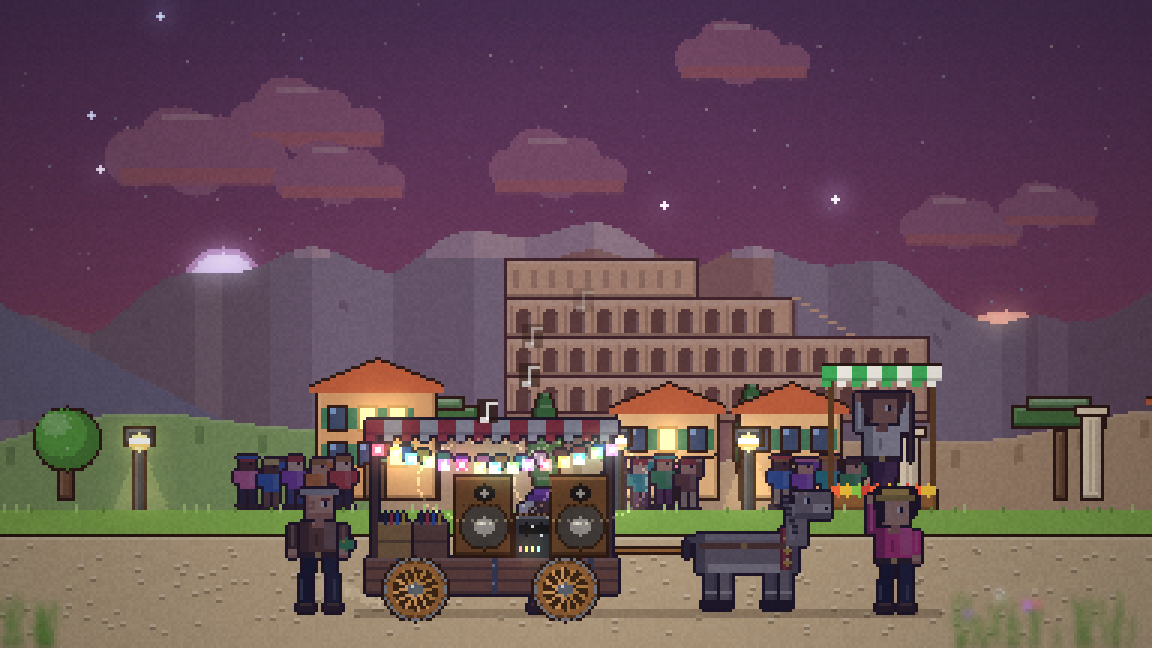
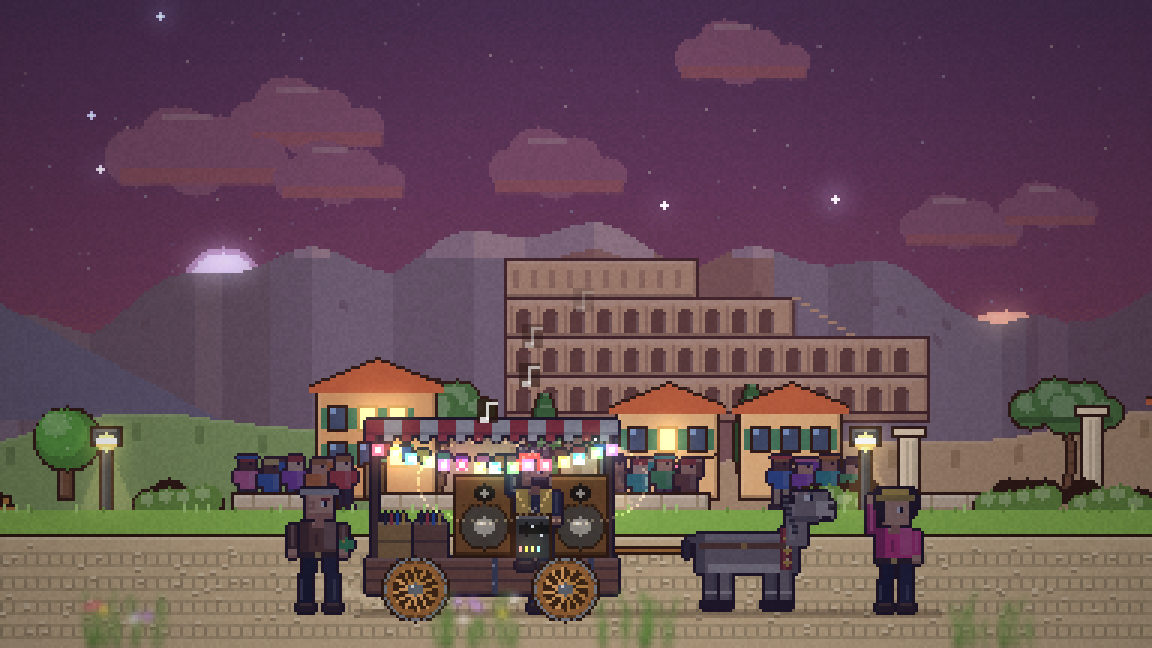
feat(visuals): neon city v2 second pass and iteration notes
Refs: alessandrodevecchi/coding-misk#64

diff --git a/src/visuals/neon-city.js b/src/visuals/neon-city.js
@@ -185,6 +185,7 @@ export function neonCityConcept() {
           for (let k = 0; k < 2; k++) out.push({ x: u + k * 32 + r.int(0, 6), kind: 'b', wd: r.int(20, 32), top: r.int(56, 104), seed: r.int(0, 1e6), z: r(), span: 36, d: z, roof: r.int(0, 3) });
           if (r.chance(0.32)) out.push({ x: u + r.int(4, 30), kind: 'screen', wd: r.int(32, 48), ht: r.int(20, 28), top: r.int(50, 84), show: r.int(0, 2), seed: r.int(0, 1e6), z: 2, span: 52, d: z });
           if (r.chance(0.22)) out.push({ x: u + r.int(0, 60), kind: 'search', seed: r.int(0, 1e6), z: -1, span: 120, d: z });
+          if (r.chance(0.08)) out.push({ x: u + r.int(10, 50), kind: 'holo', seed: r.int(0, 1e6), z: 3, span: 50, d: z });
           return out;
         },
         draw(g, o, sx, env) {
@@ -199,6 +200,15 @@ export function neonCityConcept() {
             if (o.d === 'stacks') { px(g, c, sx + 4, o.top - 18, 6, 18); px(g, shade(c, 0.2), sx + 4, o.top - 18, 6, 1); }
             if (o.d === 'harbor' && o.seed % 3 === 0) { px(g, '#c84a2a', sx + 2, o.top - 26, 2, 26); px(g, '#c84a2a', sx + 2, o.top - 26, 30, 2); px(g, '#8a8aa0', sx + 28, o.top - 24, 1, 14); }
           } else if (o.kind === 'screen') screen(g, env.glow, sx, o.top, o.wd, o.ht, o.show, d, env, o.seed);
+          else if (o.kind === 'holo') {
+            // a hologram dancer above a projector, made of scan lines, dancing on the beat
+            const gl = env.glow, c = d[['a', 'b', 'c'][o.seed % 3]], f = Math.floor(env.cyc * 4) % 4, top = 38, sway = [0, 2, 0, -2][f], arm = f % 2;
+            px(g, '#2a2440', sx - 6, top + 62, 14, 4); px(g, INK, sx - 7, top + 61, 16, 1);
+            gl.globalAlpha = 0.12; for (let k = 0; k < 60; k++) px(gl, c, sx + 1 - k / 6, top + 61 - k, Math.max(1, k / 3), 1); gl.globalAlpha = 1;
+            const fig = [[0, 0, 4, 4], [-1, 4, 6, 10], [-1 + sway, 14, 2, 12], [3 + sway, 14, 2, 12], [arm ? -5 : -4, arm ? -2 : 5, 2, arm ? 8 : 8], [arm ? 6 : 5, arm ? 5 : -3, 2, 8]];
+            for (const [fx, fy, fw, fh] of fig) for (let yy = 0; yy < fh * 2; yy++) if (yy % 2 === 0 || rng('hs', o.seed, yy, Math.floor(env.cyc * 8)) < 0.3) { gl.globalAlpha = 0.55 + (env.lv.kick || 0) * 0.35; px(gl, c, sx + fx * 2 + sway, top + 20 + fy * 2 + yy, fw * 2, 1); }
+            gl.globalAlpha = 1;
+          }
           else if (o.kind === 'search') {
             const a = -Math.PI / 2 + Math.sin(env.cyc * 0.9 + o.seed) * 0.6, gl = env.glow;
             gl.globalAlpha = 0.05 + (env.lv.kick || 0) * 0.04;
@@ -249,10 +259,10 @@ export function neonCityConcept() {
       },
       // the street close by: brick facades, windows, fire escapes, air units, shop fronts, neon
       {
-        parallax: 0.55, chunk: 64, haze: 0.07,
+        parallax: 0.62, chunk: 76, haze: 0.07,
         gen(i, r, env) {
-          const u = i * 64, z = env.zoneAt(u + 32, 0.55).id, out = [];
-          out.push({ x: u + r.int(0, 6), kind: 'facade', wd: r.int(44, 58), top: r.int(102, 128), seed: r.int(0, 1e6), span: 62, d: z, escape: r.chance(0.5), shop: r.int(0, 3) });
+          const u = i * 76, z = env.zoneAt(u + 38, 0.62).id, out = [];
+          out.push({ x: u + r.int(0, 6), kind: 'facade', wd: r.int(56, 72), top: r.int(92, 120), seed: r.int(0, 1e6), span: 62, d: z, escape: r.chance(0.5), shop: r.int(0, 3) });
           if (r.chance(0.75)) out.push({ x: u + r.int(4, 50), kind: 'vsign', word: Array.from({ length: r.int(3, 4) }, () => r.pick([...GLYPHS])).join(''), top: r.int(106, 124), col: r.pick(['a', 'b', 'c']), seed: r.int(0, 1e6), z: 2, span: 8, d: z });
           if (r.chance(0.45)) out.push({ x: u + r.int(0, 30), kind: 'hsign', word: r.pick(['RAMEN', 'BAR', 'HOTEL', 'CLUB', 'TECH', 'NOODLE', 'KARAOKE', 'DATA', 'SUSHI', 'PAWN']), top: r.int(132, 146), col: r.pick(['a', 'b', 'c']), seed: r.int(0, 1e6), z: 2, span: 44, d: z });
           return out;
@@ -266,9 +276,14 @@ export function neonCityConcept() {
             // cornice and roof edge
             px(g, shade(c, 0.2), sx - 1, o.top, o.wd + 2, 2); px(g, shade(c, -0.4), sx - 1, o.top + 2, o.wd + 2, 1);
             // windows in rows
-            for (let y = o.top + 7; y < base - 24; y += 11) for (let k = sx + 4; k < sx + o.wd - 9; k += 11) windowAt(g, gl, k, y, 7, 7, rng('lit', o.seed, k, y) < 0.45, d, hashKey(o.seed, k, y), env);
+            for (let y = o.top + 7; y < base - 26; y += 14) for (let k = sx + 5; k < sx + o.wd - 12; k += 14) windowAt(g, gl, k, y, 9, 9, rng('lit', o.seed, k, y) < 0.45, d, hashKey(o.seed, k, y), env);
             // a fire escape: platforms and zigzag stairs
             if (o.escape) for (let y = o.top + 15; y < base - 24; y += 11) { px(g, INK, sx + o.wd - 16, y, 15, 1); for (let k = 0; k < 15; k += 2) px(g, INK, sx + o.wd - 16 + k, y - 3, 1, 3); px(g, INK, sx + o.wd - 16, y - 3, 15, 1); for (let s = 0; s < 8; s++) px(g, INK, sx + o.wd - 14 + s, y + 1 + s, 2, 1); }
+            // balconies with plants
+            for (let y = o.top + 15; y < base - 26; y += 22) { const bx = sx + 4 + (o.seed % 2) * 14; px(g, INK, bx - 1, y, 14, 1); for (let k = 0; k < 14; k += 2) px(g, INK, bx - 1 + k, y - 3, 1, 3); px(g, INK, bx - 1, y - 3, 14, 1); px(g, '#5a3a2a', bx + 2, y - 3, 3, 2); px(g, '#3f8a4a', bx + 2, y - 5, 3, 2); px(g, '#5a3a2a', bx + 9, y - 3, 3, 2); px(g, '#4f9a4a', bx + 9, y - 6, 3, 3); }
+            // a cable to the next building, with laundry or little lights
+            { const cy = o.top + 10 + (o.seed % 3) * 6; for (let k = 0; k < 64; k++) px(g, '#4a4466', sx + o.wd + k - 8, cy + Math.round(Math.sin((k / 64) * Math.PI) * 5), 1, 1);
+              for (let k = 4; k < 56; k += 8) { const yy = cy + Math.round(Math.sin(((k + 2) / 64) * Math.PI) * 5); if (o.seed % 2) { px(g, ['#c8483a', '#3a6ac8', '#e8e0d0', '#d8b43a'][k % 4], sx + o.wd + k - 8, yy + 1, 4, 5); } else { const on = (Math.floor(env.cyc * 4) + k) % 3 === 0; px(g, on ? d.c : shade(d.c, -0.5), sx + o.wd + k - 8, yy + 1, 1, 1); if (on) px(gl, d.c, sx + o.wd + k - 9, yy, 3, 3); } } }
             // air units and a pipe
             box(g, sx + 2, o.top + 18, 7, 5, '#5a5a6e', { line: INK }); px(g, '#3a3a4a', sx + 3, o.top + 20, 5, 1);
             px(g, '#3a3448', sx + o.wd - 3, o.top + 4, 2, base - o.top - 6); px(g, shade('#3a3448', 0.3), sx + o.wd - 3, o.top + 4, 1, base - o.top - 6);
@@ -339,6 +354,14 @@ export function neonCityConcept() {
       px(g, mix(d.a, '#ffffff', 0.3), 0, DECK, env.w, 1); px(gl, d.a, 0, DECK, env.w, 1); gl.globalAlpha = 0.3 + bass * 0.5; px(gl, d.a, 0, DECK + 1, env.w, 2); gl.globalAlpha = 1;
       for (let x = -(env.cam % 32); x < env.w; x += 32) { px(g, '#5a5670', x, DECK + 16, 16, 1); px(g, '#3a3650', x, DECK + 17, 16, 1); }
       for (let x = -(env.cam % 9); x < env.w; x += 9) px(g, '#1c1a2c', x, DECK + 30, 4, 1);
+      // steam rising from vents in the parapet
+      for (let k = Math.floor(env.cam / 150) - 1; k <= Math.floor((env.cam + env.w) / 150); k++) {
+        if (rng('vent', k) > 0.4) continue;
+        const vx = Math.round(k * 150 + rng('vx', k) * 100 - env.cam);
+        px(g, '#0a0812', vx, top + P - 4, 8, 3);
+        for (let p = 0; p < 6; p++) { const a = (env.cyc * 0.5 + p / 6 + rng('vp', k)) % 1; g.globalAlpha = 0.25 * (1 - a); disc(g, vx + 4 + Math.sin(a * 6 + p) * 3, top + P - 6 - a * 40, 2 + Math.round(a * 6), '#b8b0d0'); }
+        g.globalAlpha = 1;
+      }
       // the city mirrored on the wet deck: streaks of the neon colours, broken by the lanes
       if (d.rain > 0.15) for (let x = 0; x < env.w; x += 2) { const k = Math.floor((x + env.cam * 0.55) / 2); if (rng('rf', k) < 0.22) { const c = rng('rc', k) < 0.5 ? d.a : rng('rc2', k) < 0.5 ? d.b : '#ffcf7a', len = 3 + Math.floor(rng('rl', k) * 14); gl.globalAlpha = 0.12 * d.rain + 0.05; px(gl, c, x, DECK + 3, 1, len); gl.globalAlpha = 1; } }
     },

diff --git a/DEVLOG.md b/DEVLOG.md
@@ -555,3 +555,11 @@ Stato al 2026-10-10: `main` = `v0.5.0`; tutto il lavoro è su `develop` (anima d
 - Concept Carovana: carro con l'impianto tirato da un asino, ballerino davanti, Cairo (piramidi, sfinge, palme, obelischi), Parigi (torre Eiffel, palazzi), New York (grattacieli, Statua della Libertà), Roma (Colosseo, cipressi, colonne), Kyoto (Fuji, pagoda, torii, ciliegi), campagna tra una città e l'altra con cartello del nome; casse che pompano su cassa e basso, cerchi di suono, lucine sui charleston, note quando suona la melodia, sole e stelle a tempo, finestre e lampioni accesi di notte; a ogni città qualcuno si aggiunge (aspetta a lato della strada) e a volte qualcuno se ne va.
 - Concept Città neon: furgone volante con le casse sul tetto su una sopraelevata, sei quartieri (mercato, guglie, ciminiere, città vecchia, porto, centro dati), megastrutture nella foschia, schermi olografici con l'equalizzatore della musica, traffico di auto volanti, insegne al neon che tremolano sui charleston, pioggia per quartiere, fulmini sul rullante, drone col faro a tempo.
 - Look nuovi "Carovana" e "Città neon". Circa 0,4-1,4 ms per frame, 60 fps nell'app. `npm run check:scroll` (stesso frame per la stessa battuta, zone, equipaggio, costo).
+
+## 2026-10-17: visual infiniti v2
+
+- Ogni versione dei visual resta: v1 congelata in `src/visuals/v1/` (voci "Carovana v1" e "Città neon v1" nel menu), tag git `visuals-v1` e `visuals-v2`, screenshot e note in `docs/VISUALS-ITERATIONS.md`.
+- Ricerca sui riferimenti del proprietario (note e screenshot in locale): basta il web, Canvas 2D con un buffer delle luci; Aseprite o Pixelorama se si vuole disegnare a mano, WebGL più avanti se serve luce dinamica.
+- Motore v2: buffer delle luci con bagliore, nascosto da ciò che sta davanti (ogni parte si disegna a parte e copre le luci dietro), foschia per livello, livelli in primo piano sfocati, vignettatura e grana; 216 px di altezza.
+- Carovana v2: personaggi dettagliati (viso, pieghe, contorno), DJ con le cuffie sul carro, carro con tendone, casse in legno, giradischi, cassette di dischi, bandierine; asino con finimenti e campanelli; montagne con versanti in luce e in ombra, colline, città con folla che salta, cespugli e muretti, bancarelle con venditori che ballano, ciottoli e pozzanghere, erba e fiori sfocati davanti, stormi di giorno, lucciole di notte, raggi del sole al tramonto.
+- Città neon v2: nove livelli (arcologie, torri, skyline con schermi e ologramma di una ballerina, treno sopraelevato, facciate in mattoni con finestre, scale antincendio, balconi, cavi con panni o lucine, negozi con tende), parapetto della sopraelevata, vapore, strada bagnata con riflessi, pilastri e cavi sfocati davanti, pioggia.

diff --git a/docs/VISUALS-ITERATIONS.md b/docs/VISUALS-ITERATIONS.md
@@ -5,6 +5,7 @@ Every iteration of the endless scrolling visuals stays in the code and can be pi
 | Version | Tag | Code | Looks | Notes |
 | --- | --- | --- | --- | --- |
 | v1 (2026-10-17) | `visuals-v1` | `src/visuals/v1/` | Caravan v1, Neon city v1 | First engine: parallax layers, seeded zones, day and night. Sprites drawn by rule. |
+| v2 (2026-10-17) | `visuals-v2` | `src/visuals/` (current) | Caravan, Neon city | Light buffer with bloom hidden by what is in front, haze per layer, blurred front layers, vignette and grain; 216 px high; detailed outlined characters, cart with a DJ, more layers (mountains, hills, town with crowd, bushes, stalls), neon city with nine layers, facades, train, hologram, parapet, steam. |
 
 ## v1
 
@@ -13,3 +14,13 @@ Every iteration of the endless scrolling visuals stays in the code and can be pi
 ![Neon city districts](media/visuals/v1/neon-city.png)
 
 ![Caravan: a stop in Kyoto](media/visuals/v1/caravan-stop.png)
+
+## v2
+
+![Caravan in New York](media/visuals/v2/caravan-newyork.png)
+
+![Caravan at dusk in Rome](media/visuals/v2/caravan-rome.png)
+
+![Neon city: four districts](media/visuals/v2/neon-districts.png)
+
+![Neon city: old town](media/visuals/v2/neon-oldtown.png)
